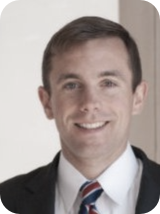
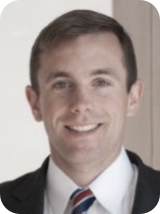
Resize Blake's profile pic for consistency

diff --git a/index.html b/index.html
@@ -4,7 +4,7 @@
 <head>
   <meta charset="utf-8">
   <meta name="viewport" content="width=device-width, initial-scale=1">
-  <meta name="description" content="We are building a tool to help you intentionally recruit the right people, not just great players.">
+  <meta name="description" content="We're building a tool to help you intentionally recruit the right people, not just great players.">
   <link rel="icon" type="image/png" href="./favicon.png?v=1" />
   <title>Onside</title>
   <style>
@@ -163,19 +163,19 @@
   <div class="container">
     <div class="pics">
       <div class="pic">
-        <img src="./pics/JR.png" />
+        <img src="./pics/JR.png?v=1" />
         <div class="pic-name center lighter-text">John Reagan</div>
       </div>
       <div class="pic">
-        <img src="./pics/Blake.png" />
+        <img src="./pics/Blake.png?v=2" />
         <div class="pic-name center lighter-text">Blake</div>
       </div>
       <div class="pic">
-        <img src="./pics/Jesse.png" />
+        <img src="./pics/Jesse.png?v=1" />
         <div class="pic-name center lighter-text">Jesse</div>
       </div>
       <div class="pic">
-        <img src="./pics/Steve.png" />
+        <img src="./pics/Steve.png?v=1" />
         <div class="pic-name center lighter-text">Steve</div>
       </div>
     </div>
